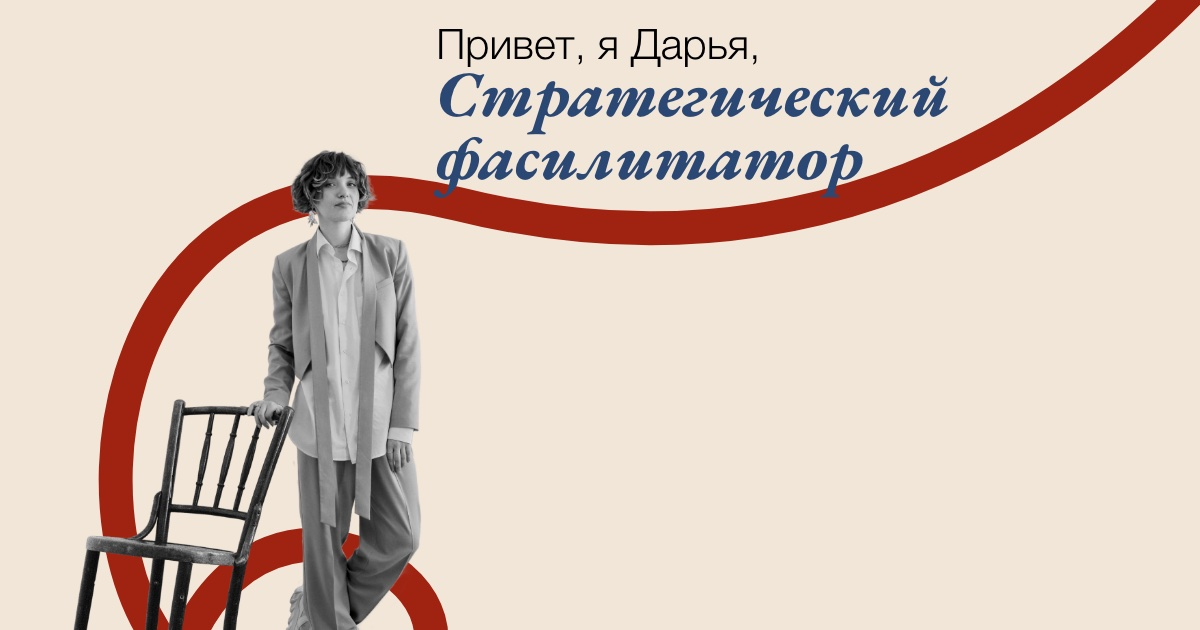
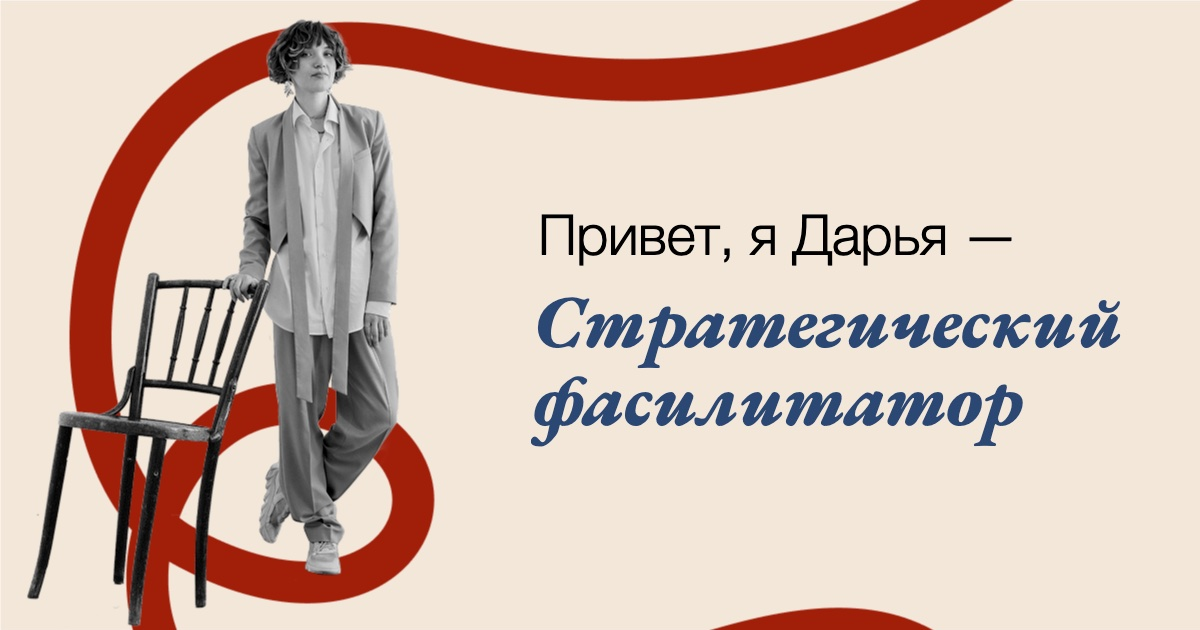
Новые превью для ссылок (EN и RU)

diff --git a/ru/index.html b/ru/index.html
@@ -20,7 +20,7 @@
   <meta property="og:title" content="Дарья Пономарёва — стратегический фасилитатор для руководителей и команд">
   <meta property="og:description" content="Исследование и стратегическая сессия, после которых у руководителей и команды один план: с ответственными, приоритетами и сигналами, когда его пора менять.">
   <meta property="og:url" content="https://strategic-facilitator.com/ru/">
-  <meta property="og:image" content="https://strategic-facilitator.com/assets/img/og-image-ru.jpg">
+  <meta property="og:image" content="https://strategic-facilitator.com/assets/img/og-image-ru.jpg?v=2">
   <meta property="og:image:width" content="1200">
   <meta property="og:image:height" content="630">
   <meta property="og:image:alt" content="Дарья Пономарёва — стратегический фасилитатор">
@@ -29,7 +29,7 @@
   <meta name="twitter:card" content="summary_large_image">
   <meta name="twitter:title" content="Дарья Пономарёва — стратегический фасилитатор для руководителей и команд">
   <meta name="twitter:description" content="Стратегические сессии онлайн: один план с ответственными и приоритетами.">
-  <meta name="twitter:image" content="https://strategic-facilitator.com/assets/img/og-image-ru.jpg">
+  <meta name="twitter:image" content="https://strategic-facilitator.com/assets/img/og-image-ru.jpg?v=2">
 
   <link rel="icon" href="../favicon.svg" type="image/svg+xml">
   <link rel="apple-touch-icon" href="../apple-touch-icon.png">
@@ -59,7 +59,7 @@
         "@id": "https://strategic-facilitator.com/#service",
         "name": "Дарья Пономарёва — стратегическая фасилитация",
         "url": "https://strategic-facilitator.com/ru/",
-        "image": "https://strategic-facilitator.com/assets/img/og-image-ru.jpg",
+        "image": "https://strategic-facilitator.com/assets/img/og-image-ru.jpg?v=2",
         "email": "dashtetina@gmail.com",
         "telephone": "+995598668856",
         "areaServed": "Worldwide",

diff --git a/index.html b/index.html
@@ -20,7 +20,7 @@
   <meta property="og:title" content="Daria Ponomareva — Strategic Facilitator for Leaders and Teams">
   <meta property="og:description" content="Research and strategy sessions that bring a team to one plan with owners, priorities and signals for when to change course.">
   <meta property="og:url" content="https://strategic-facilitator.com/">
-  <meta property="og:image" content="https://strategic-facilitator.com/assets/img/og-image.jpg">
+  <meta property="og:image" content="https://strategic-facilitator.com/assets/img/og-image.jpg?v=2">
   <meta property="og:image:width" content="1200">
   <meta property="og:image:height" content="630">
   <meta property="og:image:alt" content="Daria Ponomareva — Strategic Facilitator">
@@ -29,7 +29,7 @@
   <meta name="twitter:card" content="summary_large_image">
   <meta name="twitter:title" content="Daria Ponomareva — Strategic Facilitator for Leaders and Teams">
   <meta name="twitter:description" content="Research and strategy sessions that bring a team to one plan with owners and priorities.">
-  <meta name="twitter:image" content="https://strategic-facilitator.com/assets/img/og-image.jpg">
+  <meta name="twitter:image" content="https://strategic-facilitator.com/assets/img/og-image.jpg?v=2">
 
   <link rel="icon" href="favicon.svg" type="image/svg+xml">
   <link rel="apple-touch-icon" href="apple-touch-icon.png">
@@ -61,7 +61,7 @@
         "@id": "https://strategic-facilitator.com/#service",
         "name": "Daria Ponomareva — Strategic Facilitation",
         "url": "https://strategic-facilitator.com/",
-        "image": "https://strategic-facilitator.com/assets/img/og-image.jpg",
+        "image": "https://strategic-facilitator.com/assets/img/og-image.jpg?v=2",
         "email": "dashtetina@gmail.com",
         "telephone": "+995598668856",
         "founder": { "@id": "https://strategic-facilitator.com/#daria" },
